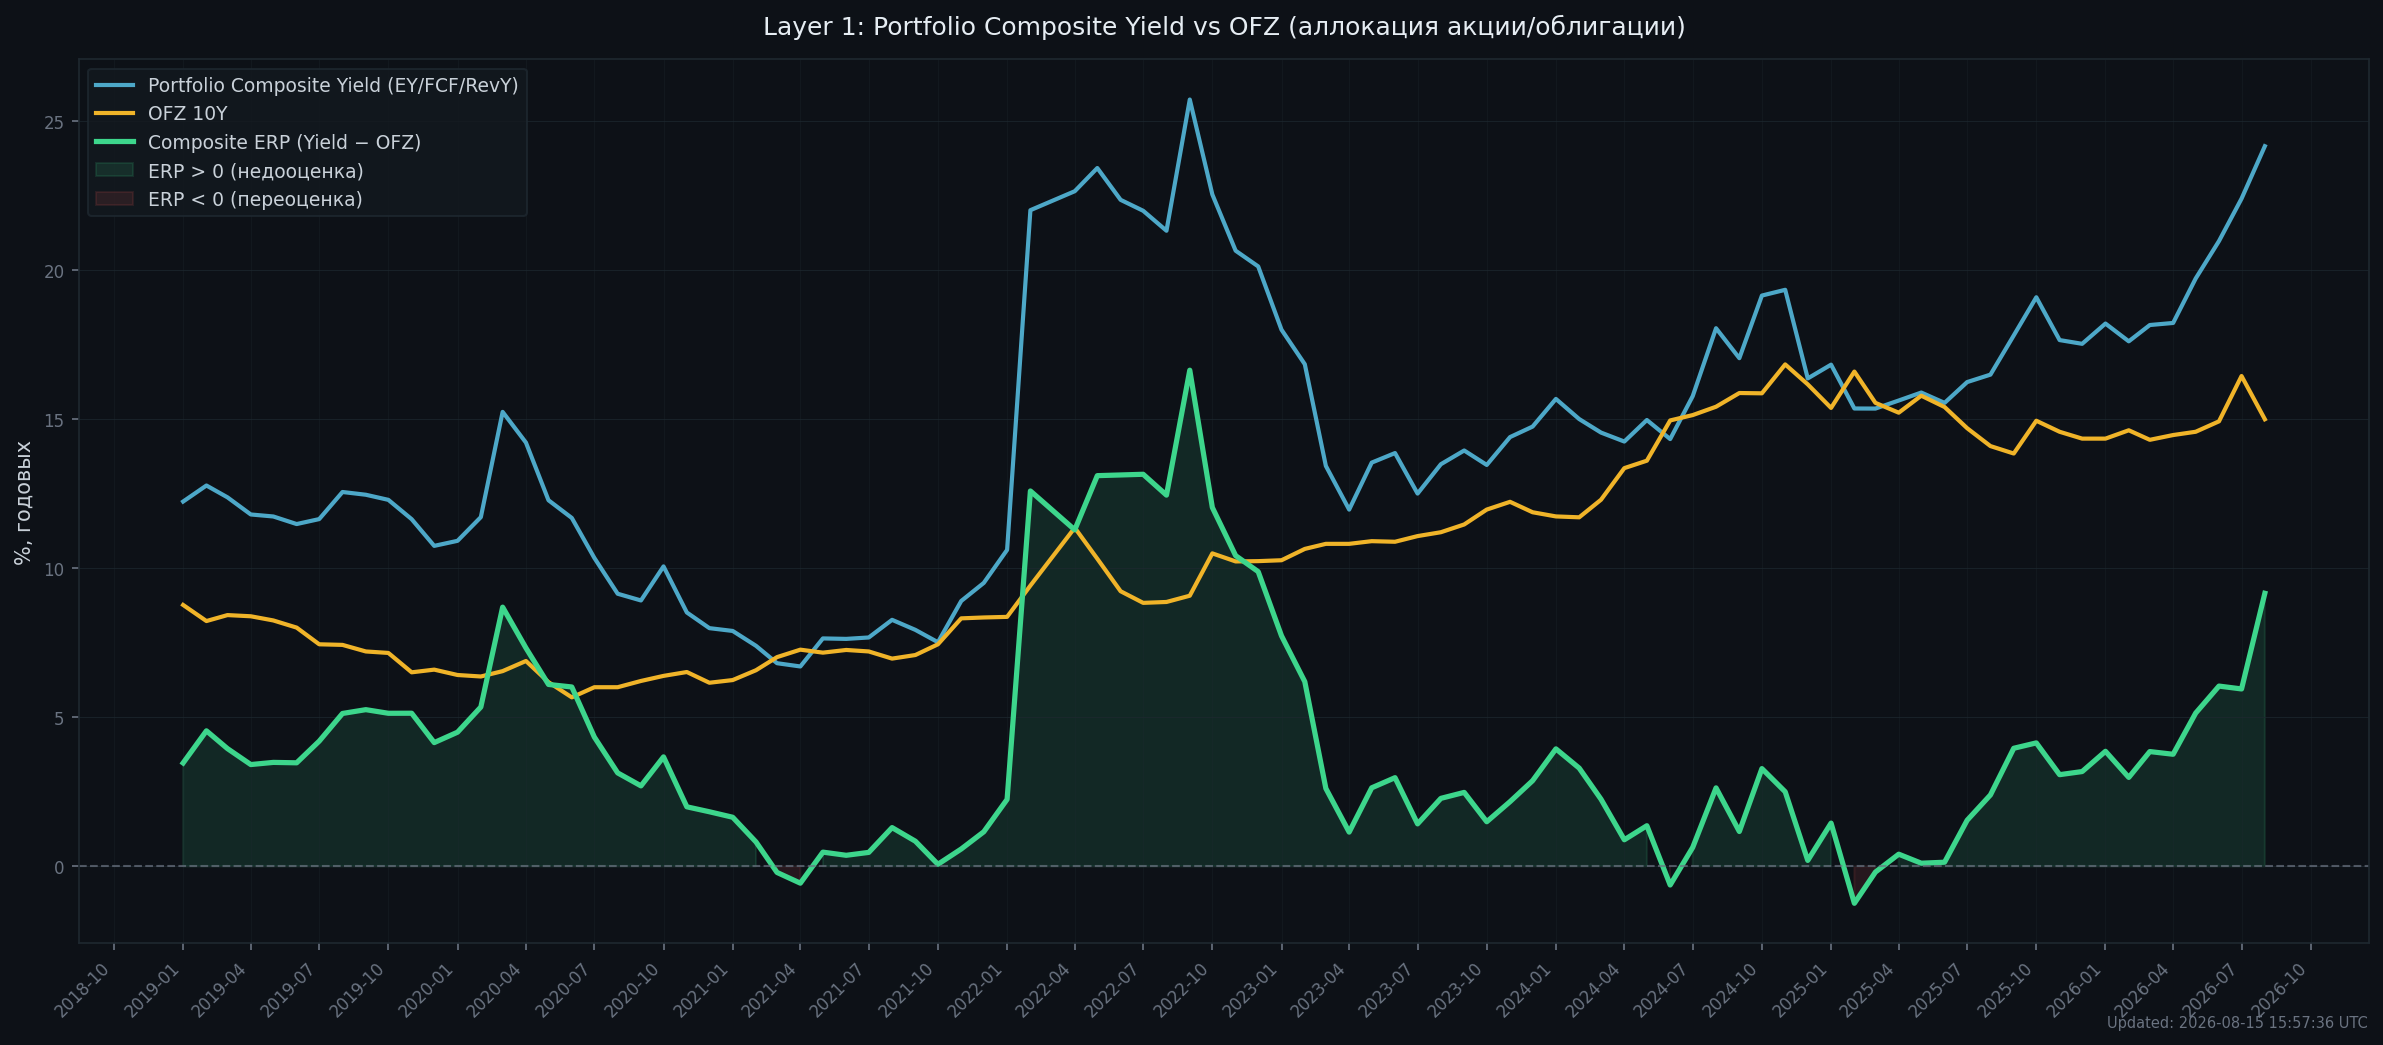
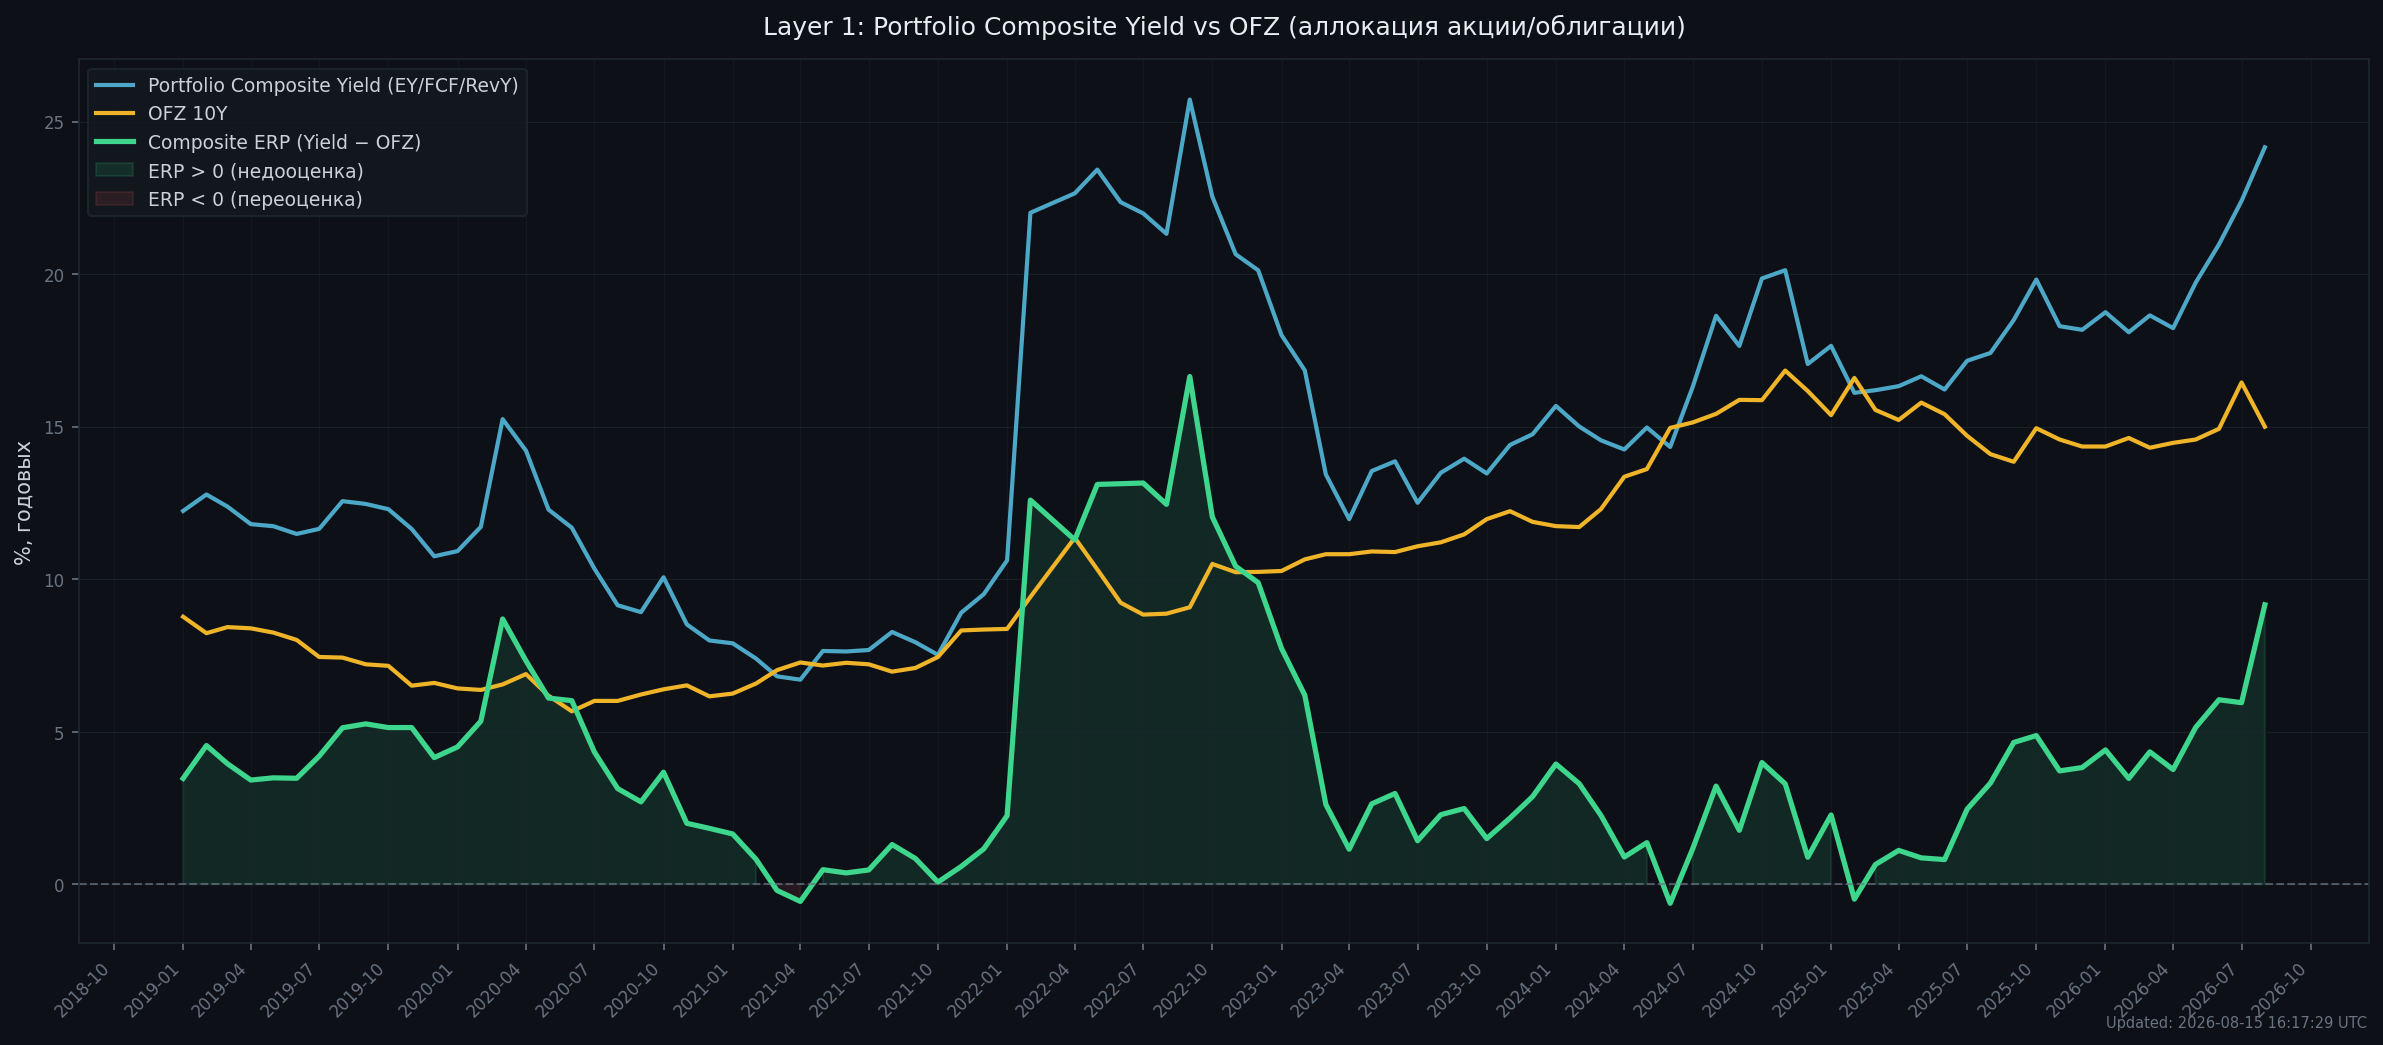
fix vtb

diff --git a/erp_valuation/erp_full.py b/erp_valuation/erp_full.py
@@ -47,6 +47,15 @@ T_PRE_SPLIT_SHARES = 268274786   # = 2682747860 / 9.58 (implied from price ratio
 # We handle this by using adjusted shares count per period.
 VTBR_SPLIT_DATE = date(2024, 7, 15)
 VTBR_SPLIT_RATIO = 4664  # old shares per 1 new share
+# Two further share-count changes after the reverse split:
+#  - 2024-07-15 .. 2025-09-30: 5,370mn shares (post-split, pre-SPO)
+#  - 2025-09-30 .. 2026-04-30: 6,620mn shares (SPO settled 2025-09-30, raised ~84bn RUB)
+#  - 2026-04-30 .. present:    12,927,766,416 (SHARES['VTBR']) — preferred→ordinary
+#    conversion completed 2026-04-30, no cash raised
+VTBR_SPO_DATE = date(2025, 9, 30)
+VTBR_POST_SPLIT_SHARES = 5370000000
+VTBR_CONVERSION_DATE = date(2026, 4, 30)
+VTBR_POST_SPO_SHARES = 6620000000
 
 # DOMRF (ДОМ.РФ) IPO on 2025-11-20: 179.9M shares post-IPO, 161.8M before.
 DOMRF_START = date(2025, 11, 20)
@@ -181,8 +190,13 @@ def main():
                 ey_values[ticker] = None
                 continue
             shares = SHARES[ticker]
-            if ticker == 'VTBR' and as_of < VTBR_SPLIT_DATE:
-                shares = shares * VTBR_SPLIT_RATIO
+            if ticker == 'VTBR':
+                if as_of < VTBR_SPLIT_DATE:
+                    shares = shares * VTBR_SPLIT_RATIO
+                elif as_of < VTBR_SPO_DATE:
+                    shares = VTBR_POST_SPLIT_SHARES
+                elif as_of < VTBR_CONVERSION_DATE:
+                    shares = VTBR_POST_SPO_SHARES
             if ticker == 'YDEX' and as_of < YDEX_START:
                 shares = YNDX_SHARES
             if ticker == 'T' and as_of < T_START:

diff --git a/erp_valuation/composite_valuation.py b/erp_valuation/composite_valuation.py
@@ -39,6 +39,15 @@ T_SPLIT_DATE     = date(2026, 4, 17)
 T_PRE_SPLIT_SHARES = 268274786
 VTBR_SPLIT_DATE  = date(2024, 7, 15)
 VTBR_SPLIT_RATIO = 4664
+# Two share-count changes after the reverse split:
+#  - 2024-07-15 .. 2025-09-30: 5,370mn shares (post-split, pre-SPO)
+#  - 2025-09-30 .. 2026-04-30: 6,620mn shares (SPO settled 2025-09-30, raised ~84bn RUB)
+#  - 2026-04-30 .. present:    12,927,766,416 (SHARES['VTBR']) — preferred→ordinary
+#    conversion completed 2026-04-30, no cash raised
+VTBR_SPO_DATE       = date(2025, 9, 30)
+VTBR_POST_SPLIT_SHARES = 5370000000
+VTBR_CONVERSION_DATE   = date(2026, 4, 30)
+VTBR_POST_SPO_SHARES   = 6620000000
 DOMRF_START      = date(2025, 11, 20)
 DOMRF_PRE_IPO_SHARES = 161800000
 
@@ -145,8 +154,13 @@ def load_ofz():
 
 def get_shares(ticker, as_of):
     shares = SHARES[ticker]
-    if ticker == 'VTBR' and as_of < VTBR_SPLIT_DATE:
-        shares = shares * VTBR_SPLIT_RATIO
+    if ticker == 'VTBR':
+        if as_of < VTBR_SPLIT_DATE:
+            shares = shares * VTBR_SPLIT_RATIO
+        elif as_of < VTBR_SPO_DATE:
+            shares = VTBR_POST_SPLIT_SHARES
+        elif as_of < VTBR_CONVERSION_DATE:
+            shares = VTBR_POST_SPO_SHARES
     if ticker == 'YDEX' and as_of < YDEX_START:
         shares = YNDX_SHARES
     if ticker == 'T':
